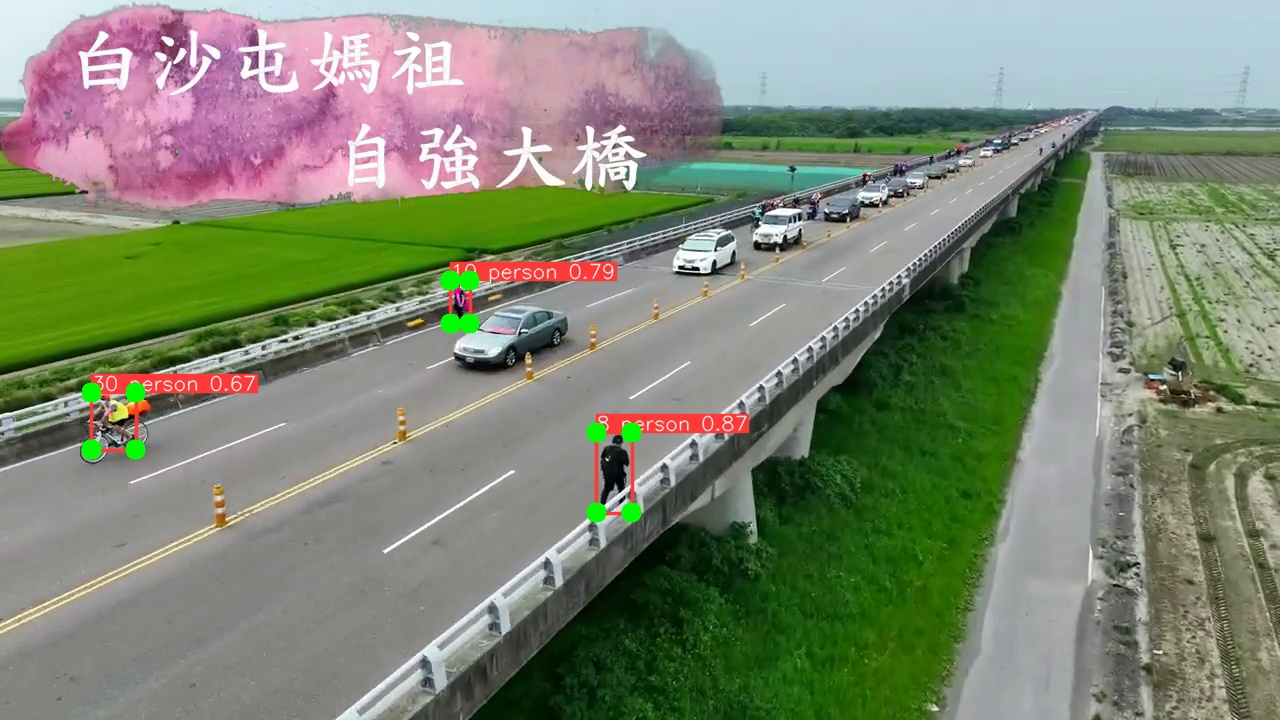
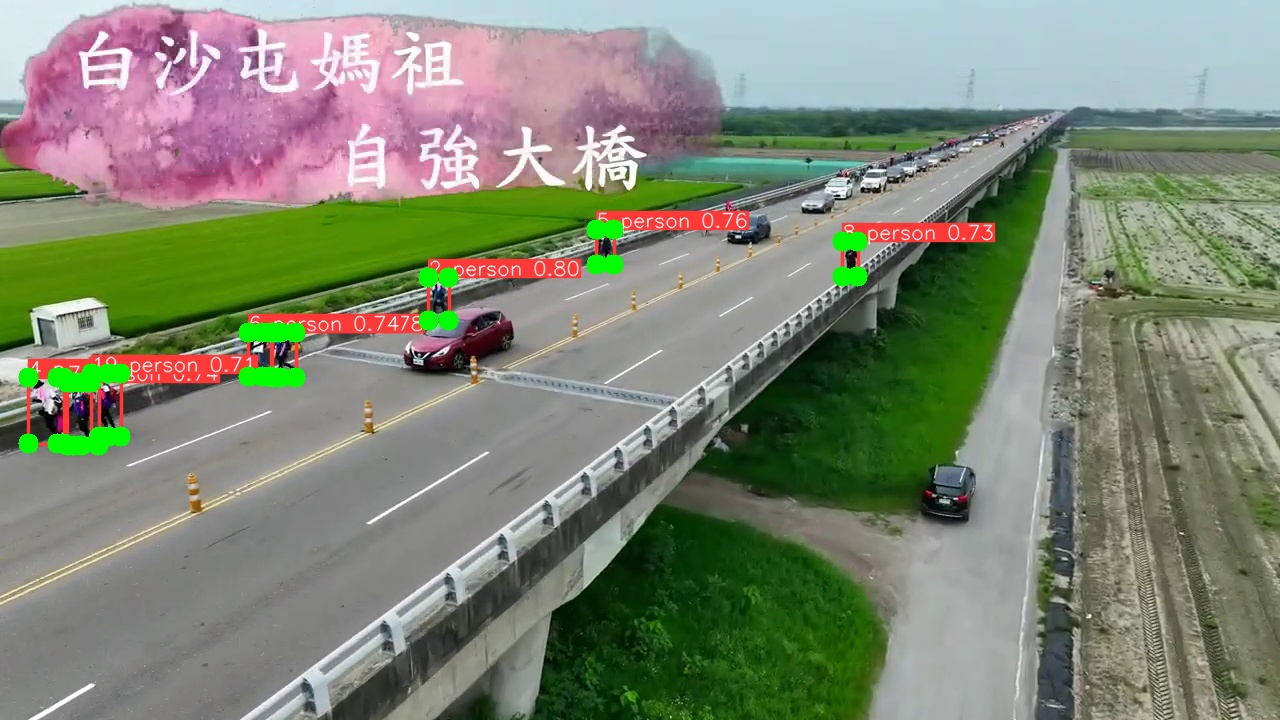
2022/10/28

diff --git a/track.py b/track.py
@@ -207,7 +207,7 @@ def run(
     prev_img = None
     prev_features = None
     ppbox_mask = None
-    n_frame = 3 # 決定一次要分析幾個frame , n_frame must>= 2
+    n_frame = 5 # 決定一次要分析幾個frame , n_frame must>= 2
     optflow_result = dict()
     pptrack_handler = PPTrackHandler(n_frame)
     b_manager = BackgroundManager()
@@ -221,12 +221,12 @@ def run(
     dt, seen = [0.0, 0.0, 0.0, 0.0], 0
     curr_frames, prev_frames = [None] * nr_sources, [None] * nr_sources
     
-    frame_count_cc = 0
+    
     for frame_idx, (path, im, im0s, vid_cap, s) in enumerate(dataset):
         if globals.kill_t == True:
             print("STOP ANALYZING!!")
             break
-        frame_count_cc += 1
+        globals.frame_count_cc += 1
         # if frame_count_cc >= 300:
         #     break
         t1 = time_sync()
@@ -274,6 +274,7 @@ def run(
             tmp_img = copy.deepcopy(im0)
             if im0.shape[0] >1000 or im0.shape[1]>1000:
                 tmp_img = cv2.resize(im0,(920,540), interpolation=cv2.INTER_AREA)
+            # cv2.imwrite("result/output"+str(globals.frame_count_cc)+".jpg", tmp_img)
             cv2.imwrite("output.jpg", tmp_img)
             ##############################test stream#######################################
             #cv2.imshow(str(p),im0)
@@ -383,7 +384,7 @@ def run(
                 if show_optflow:
                         optflow_prev_time = time.time()
                         optflow = Optflow()     
-
+                        # if globals.frame_count_cc%pptrack_handler.frame_max == 0:
                         if len(pptrack_handler.records) >= pptrack_handler.frame_max:
                             ppbox_mask= optflow.get_ppbox_mask(im0, box_list)  
                             if prev_features is not None:
@@ -428,8 +429,9 @@ def run(
                 if show_arrow or show_trace:   
                     
                     if show_arrow:
+                        # if globals.frame_count_cc%pptrack_handler.frame_max == 0:
                         if len(pptrack_handler.records) >= pptrack_handler.frame_max:
-                            edge = int((background.shape[1] + background.shape[0]/2.0)/8.0)
+                            edge = int((background.shape[1] + background.shape[0]/2.0)/6.0)
                             
                             arrow_prev_time = time.time()
                             person_data = pptrack_handler.trans_data2ppdata(edge)[0]
@@ -452,6 +454,7 @@ def run(
                         
                             first_img = transparent
                             cnt = 1
+                        # if globals.frame_count_cc%pptrack_handler.frame_max == 0:
                         if len(pptrack_handler.records) >= pptrack_handler.frame_max:
                             pdata = pptrack_handler.trans_data2ppdata(type = 1)
                             trace_prev_time = time.time()

diff --git a/optflow.py b/optflow.py
@@ -3,7 +3,6 @@ import numpy as np
 import threading
 from yolov5.utils.general import (cv2)
 import copy
-import time
 from pptracking_util import dist, show
 from collections import deque
 
@@ -27,7 +26,7 @@ class Optflow:
             box_img = np.zeros((end_y - start_y, end_x - start_x, 3), dtype=np.int32)
             box_img[0:end_y - start_y, 0:  end_x - start_x] = 255
             mask[start_y:end_y, start_x:end_x] = box_img
-        cv2.imwrite('mask.jpg', mask)
+        # cv2.imwrite('mask.jpg', mask)
         return mask
         
     
@@ -49,7 +48,6 @@ class Optflow:
             # 找出人的box 外框
             pid = pp.id
             ppl_box = np.array(box_list[pid]).astype(np.int32)
-            print(ppl_box)
             # 外拓，以方便獲取周圍的feature
             ppl_box += np.array([-10, -10, 10, 10])
             # 避免<0的位置
@@ -64,6 +62,7 @@ class Optflow:
             # 相對位置->絕對位置
             for feature in person_outer_features:
                 feature += [ppl_box[0], ppl_box[1]]
+                
                 img = cv2.circle(img, (feature[0], feature[1]), 10, [0,255,0], -1)
             
             people_outer_features_dict[pp.id] = person_outer_features
@@ -74,13 +73,12 @@ class Optflow:
         return people_outer_features_dict
     # 取人群的輪廓（最多x個點作為特徵)
     def get_features(self, masked_img):
-        x = 5
         # 參考來源：https://iter01.com/547012.html
         # ret, binary = cv2.threshold(masked_img, 127, 255, cv2.THRESH_BINARY)
         masked_img = cv2.cvtColor(masked_img, cv2.COLOR_BGR2GRAY)
         masked_img = np.array(masked_img,np.uint8)
         contours, hierarchy = cv2.findContours(masked_img, cv2.RETR_TREE, cv2.CHAIN_APPROX_SIMPLE)
-        draw_img0 = cv2.drawContours(masked_img.copy(), contours, -1,(0,0,255),3)
+        # draw_img0 = cv2.drawContours(masked_img.copy(), contours, -1,(0,0,255),3)
         
         contours = np.array(list(contours), dtype = object)
         

diff --git a/heatmap.py b/heatmap.py
@@ -14,9 +14,10 @@ import matplotlib.pyplot as plt
 from matplotlib.offsetbox import (TextArea, DrawingArea, OffsetImage,
                                   AnnotationBbox)
 from matplotlib.backends.backend_agg import FigureCanvasAgg as FigureCanvas
+import globals
   
 def heatmap(frame_idx,ppl_res, width, height):
-    if frame_idx %3 == 0:
+    if frame_idx % 5 == 0 : #決定一次要分析幾個frame , n_frame must>= 2
         # goal: put the orig frame under the heatmap
         # DEFINE GRID SIZE AND RADIUS(h)
         grid_size = (width + height) // 200
@@ -96,6 +97,7 @@ def heatmap(frame_idx,ppl_res, width, height):
         plt.axis([0, width, 0, height])  
         plt.plot(x,y,'ro')
         plt.savefig('output_heatmap.jpg')
+        # plt.savefig('result/output_heatmap'+str(globals.frame_count_cc) +'.jpg')
         #fig = plt.figure()
         #print("fig  : ", type(fig), "\n")
         #-----------------------------------------cv2 to pil---blend  

diff --git a/pptracking_util.py b/pptracking_util.py
@@ -8,6 +8,7 @@ import os
 import threading
 import copy
 import time
+import globals
 
 
 class ThicknessSigmoid:
@@ -55,14 +56,17 @@ def dist(end, start = np.array([0, 0])):
 COLOR_CLOSE = (0, 0, 255)
 COLOR_MIDDLE = (0, 255, 0)
 COLOR_LONG = (255, 0, 0)
-        
+#count = 0
 def show(title, im, wait = 0, showout = False):
+    #global count
     if im.shape[0] >1000 or im.shape[1]>1000:
         w, h = im.shape[0:2]
         im = cv2.resize(im,(1080,int(1080*w/h)), interpolation=cv2.INTER_AREA) 
     try: 
-        print(im.shape)
-        cv2.imwrite("output_"+title+".jpg", im)
+        #print(im.shape)
+        # cv2.imwrite("result/output_"+title+str(globals.frame_count_cc)+".jpg", im)
+        cv2.imwrite("output_"+title+".jpg", im)     
+        #count += 1
     except:
         print('---save image of'+ " output_"+title+".jpg" + 'has an error')
     if showout:

diff --git a/pptrack_handler.py b/pptrack_handler.py
@@ -213,6 +213,8 @@ class PPTrackHandler: #Data_position
             #     angle = angle(vec, [1, 0])
             #     scope = angle/45
             #     scope_count[scope]+= 1
+            # for i in range(8):
+                
             #...未完成
             if len(vec_list)!= 0:
                 for vec in vec_list:

diff --git a/app.py b/app.py
@@ -18,7 +18,6 @@ app = Flask(__name__)
 source = ""
 t = threading.Thread(target = track.start_stream, args = (source,))
 #t = multiprocessing.Process(target = track.start_stream, args = (source,))
-terminate_t = True
 #camera = cv2.VideoCapture(0)
 
 def legal_url(url):

diff --git a/globals.py b/globals.py
@@ -2,3 +2,6 @@ global kill_t
 global n_of_people
 kill_t = False
 n_of_people = 0
+
+global frame_count_cc
+frame_count_cc = 0
